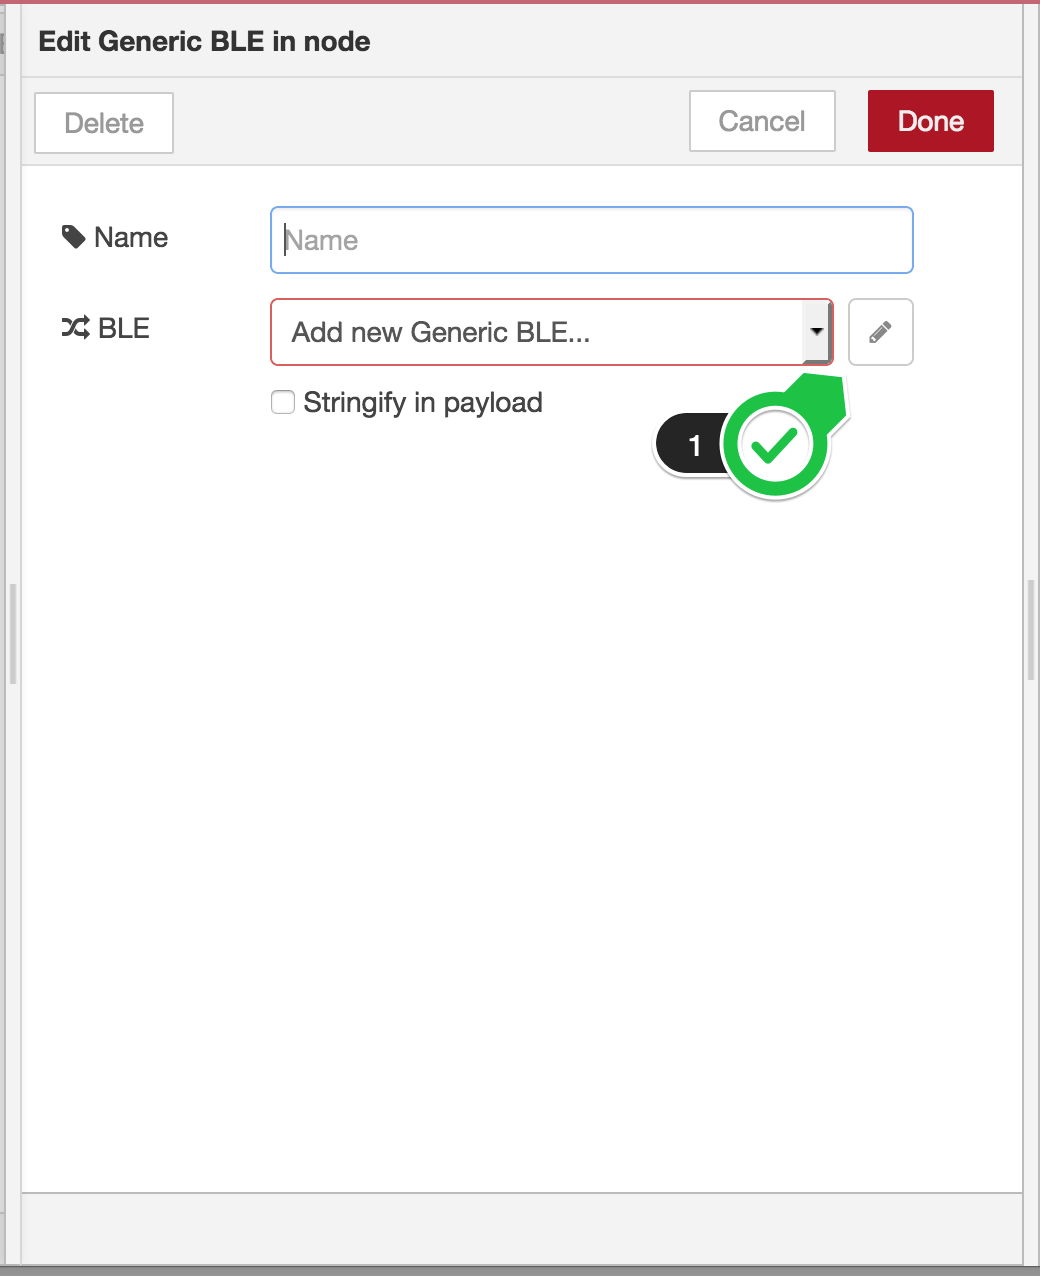
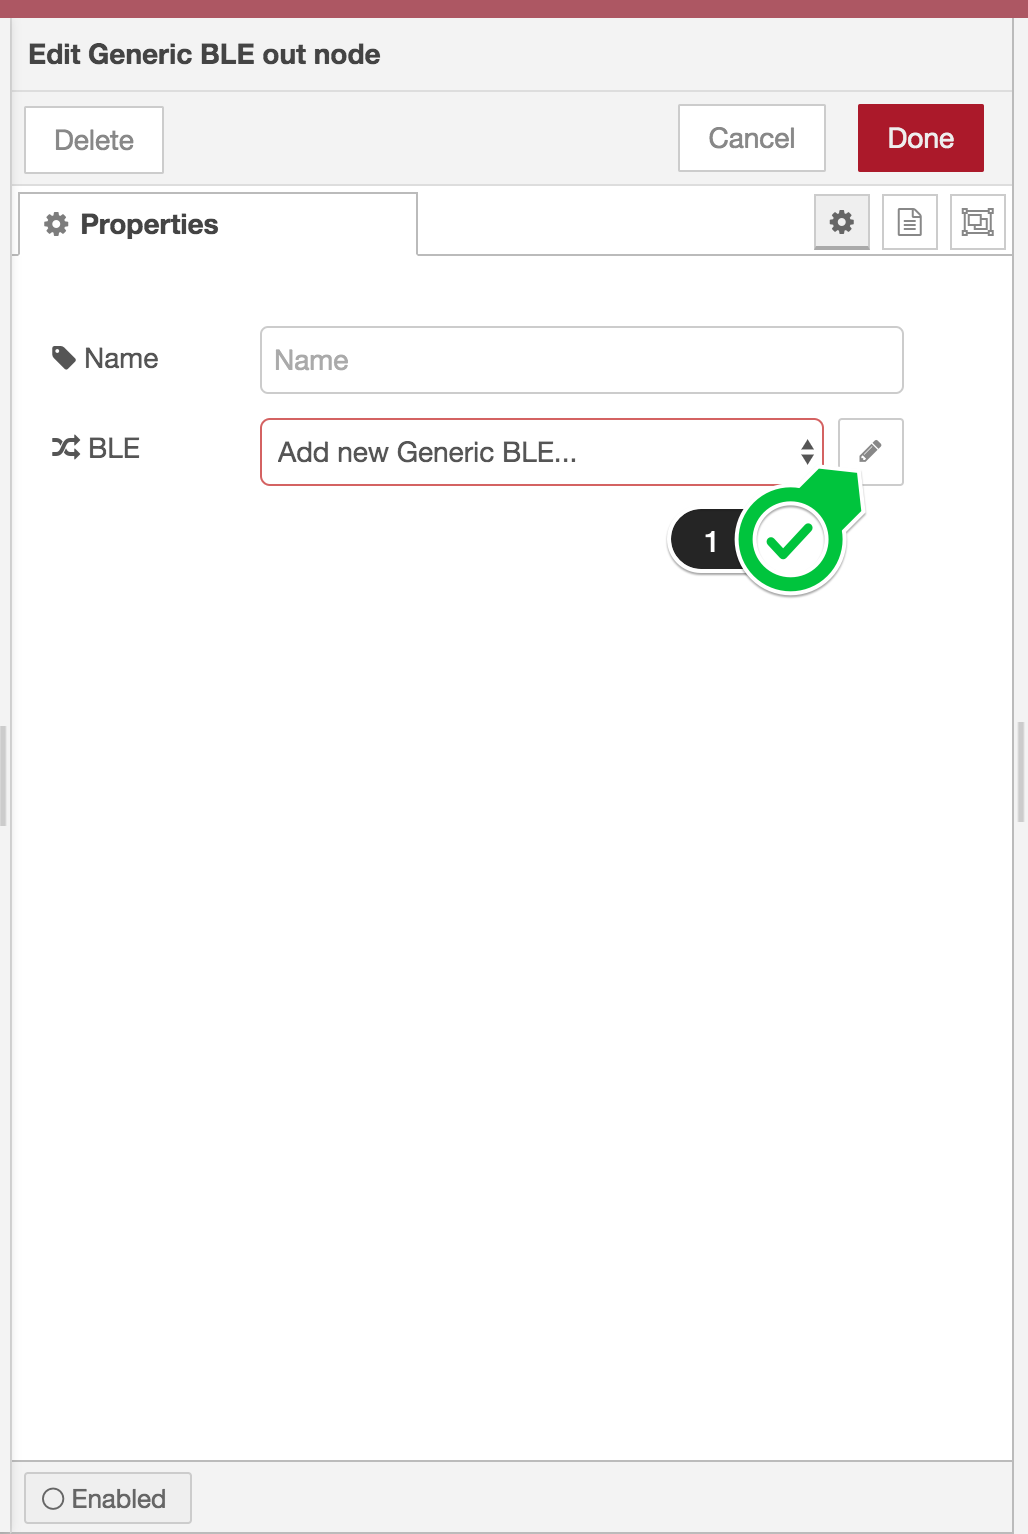
Update tutorial

Changed region(s): [[0.0, 0.0, 1.0, 1.0], [0.249, 0.1528, 0.8716, 0.3973], [0.6537, 0.0611, 0.7782, 0.1223]]

diff --git a/README.md b/README.md
@@ -3,14 +3,15 @@ node-red-contrib-generic-ble
 
 A Node-RED node for providing access to generic BLE peripheral devices via GATT.
 
-As of v4.0.0, this node is optmized for Linux with BlueZ 5.
+As of v4.0.0, this node is optmized for Linux with BlueZ 5 D-Bus API (HCI socket is no longer used on Linux).
+macOS and Windows should work as nothing is modified for these platforms.
 
 Supported operations are as follows:
 
 - Read
 - Write
 - Write without Response
-- Notify
+- Notify (Subscribing the Notify event)
 
 In this version, the node status values are as follows:
 
@@ -21,39 +22,50 @@ In this version, the node status values are as follows:
 - `disconnecting` when the configured BLE peripheral device is being disconnecting
 - `error` when unexpected error occurs
 
+Known issue for Linux BlueZ D-Bus API:
+
+- It seems the local name in advertisement packet isn't transferred to `LocalName` property in org.bluez.Device1 BlueZ D-Bus API. With HCI socket implementaion, the local name was resolved. So the local name can be resolved on macOS and Windows. 
+
 # How to use
 
 ## How to configure a new BLE peripheral device
 
 At first, drag either a `generic ble in` node or a `generic ble out` node to the workspace from the node palette and double-click the node. And you can find the following dialog. Here, click the pencil icon (`1`) to add a new BLE peripheral or edit the existing one.
 
-![ble in node](images/ble1.png)
+![ble out node](images/ble1.png)
 
-Then the new config node dialog appears like this.
+Then the new config node dialog appears as shown below.
+
+The `BLE Scanning` shows whether or not BLE scanning is going on. In order to start BLE scanning, check it (`2`).
 
 ![ble config node](images/ble2.png)
 
-The `Scan Result` shows the scanned BLE peripherals. It can be empty when no peripherals are found.
-
-In order for the dialog to list your device, turn BLE on prior to open the dialog. Close the dialog then re-open it if you'd like to get the latest scan result.
-
-By default, you have to enter either MAC address or UUID manually to configure your BLE peripheral. However, by checking `Select from scan result`(`2`), you can choose the peripheral if it exists in the scan result.
+As soon as you check it, `Scan Result` select box and `Apply` button appear. The scan results are automatically fufilled in the select box. The content will be refreshed every 10 seconds.
 
 ![ble config node](images/ble3.png)
 
-When you choose the peripheral, `GATT Characteristics` shows all characteristics discovered in it, and `Local Name`, `MAC` and `UUID` are automatically resolved as well.
+Chosoe one of the listed devices and then click `Apply` to populate `Local Name`, `MAC` and `UUID` input text boxes. Clicking `Apply` button also triggers GATT characteristics discovery as well.
 
-If you cannot find your peripheral in the `Scan Result`, you can reload the result by closing this dialog and re-opening it as described above.
+The following picure shows the `Apply` button clicking result. `GATT Characteristics` has a characteristic list of the selected device. When you see `(not available)` message in the box, check if the device is NOT sleeping (a sleeping device fails to respond to connect request) and click `Apply` again.
 
-Click `Add` (`3`) when the information on the dialog looks good.
+`GATT Characteristics` must be populated as the node uses the list to verify if a given characteristic UUID is valid on performing `Read`, `Write` and `Subscribe` requests.
+
+Click `Add` (`3`) to save the information when everything is ok.
 
 ![ble config node](images/ble4.png)
 
-Click `Done` (`4`) to finish the `ble in` node settings.
+OK. Now back to `Generic BLE out` node.
+Click `Done` (`4`) to finish the `Generic BLE out` node settings.
+
+You can import an example flow from the menu icon(`三`) > Import > Examples > node-red-contrib-generic-ble > 01-read-write.
+
+![ble config node](images/ble5.png)
 
 ## How to translate gatttool command into flow
 
 In this example, we show how to describe `gatttool` commands for characteristic value write and read with Generic BLE nodes.
+
+**NOTICE: As of BlueZ 5, gatttool is deprecated. gatttool will be removed in the future relesase.**
 
 ### Characteristics Value Write
 
